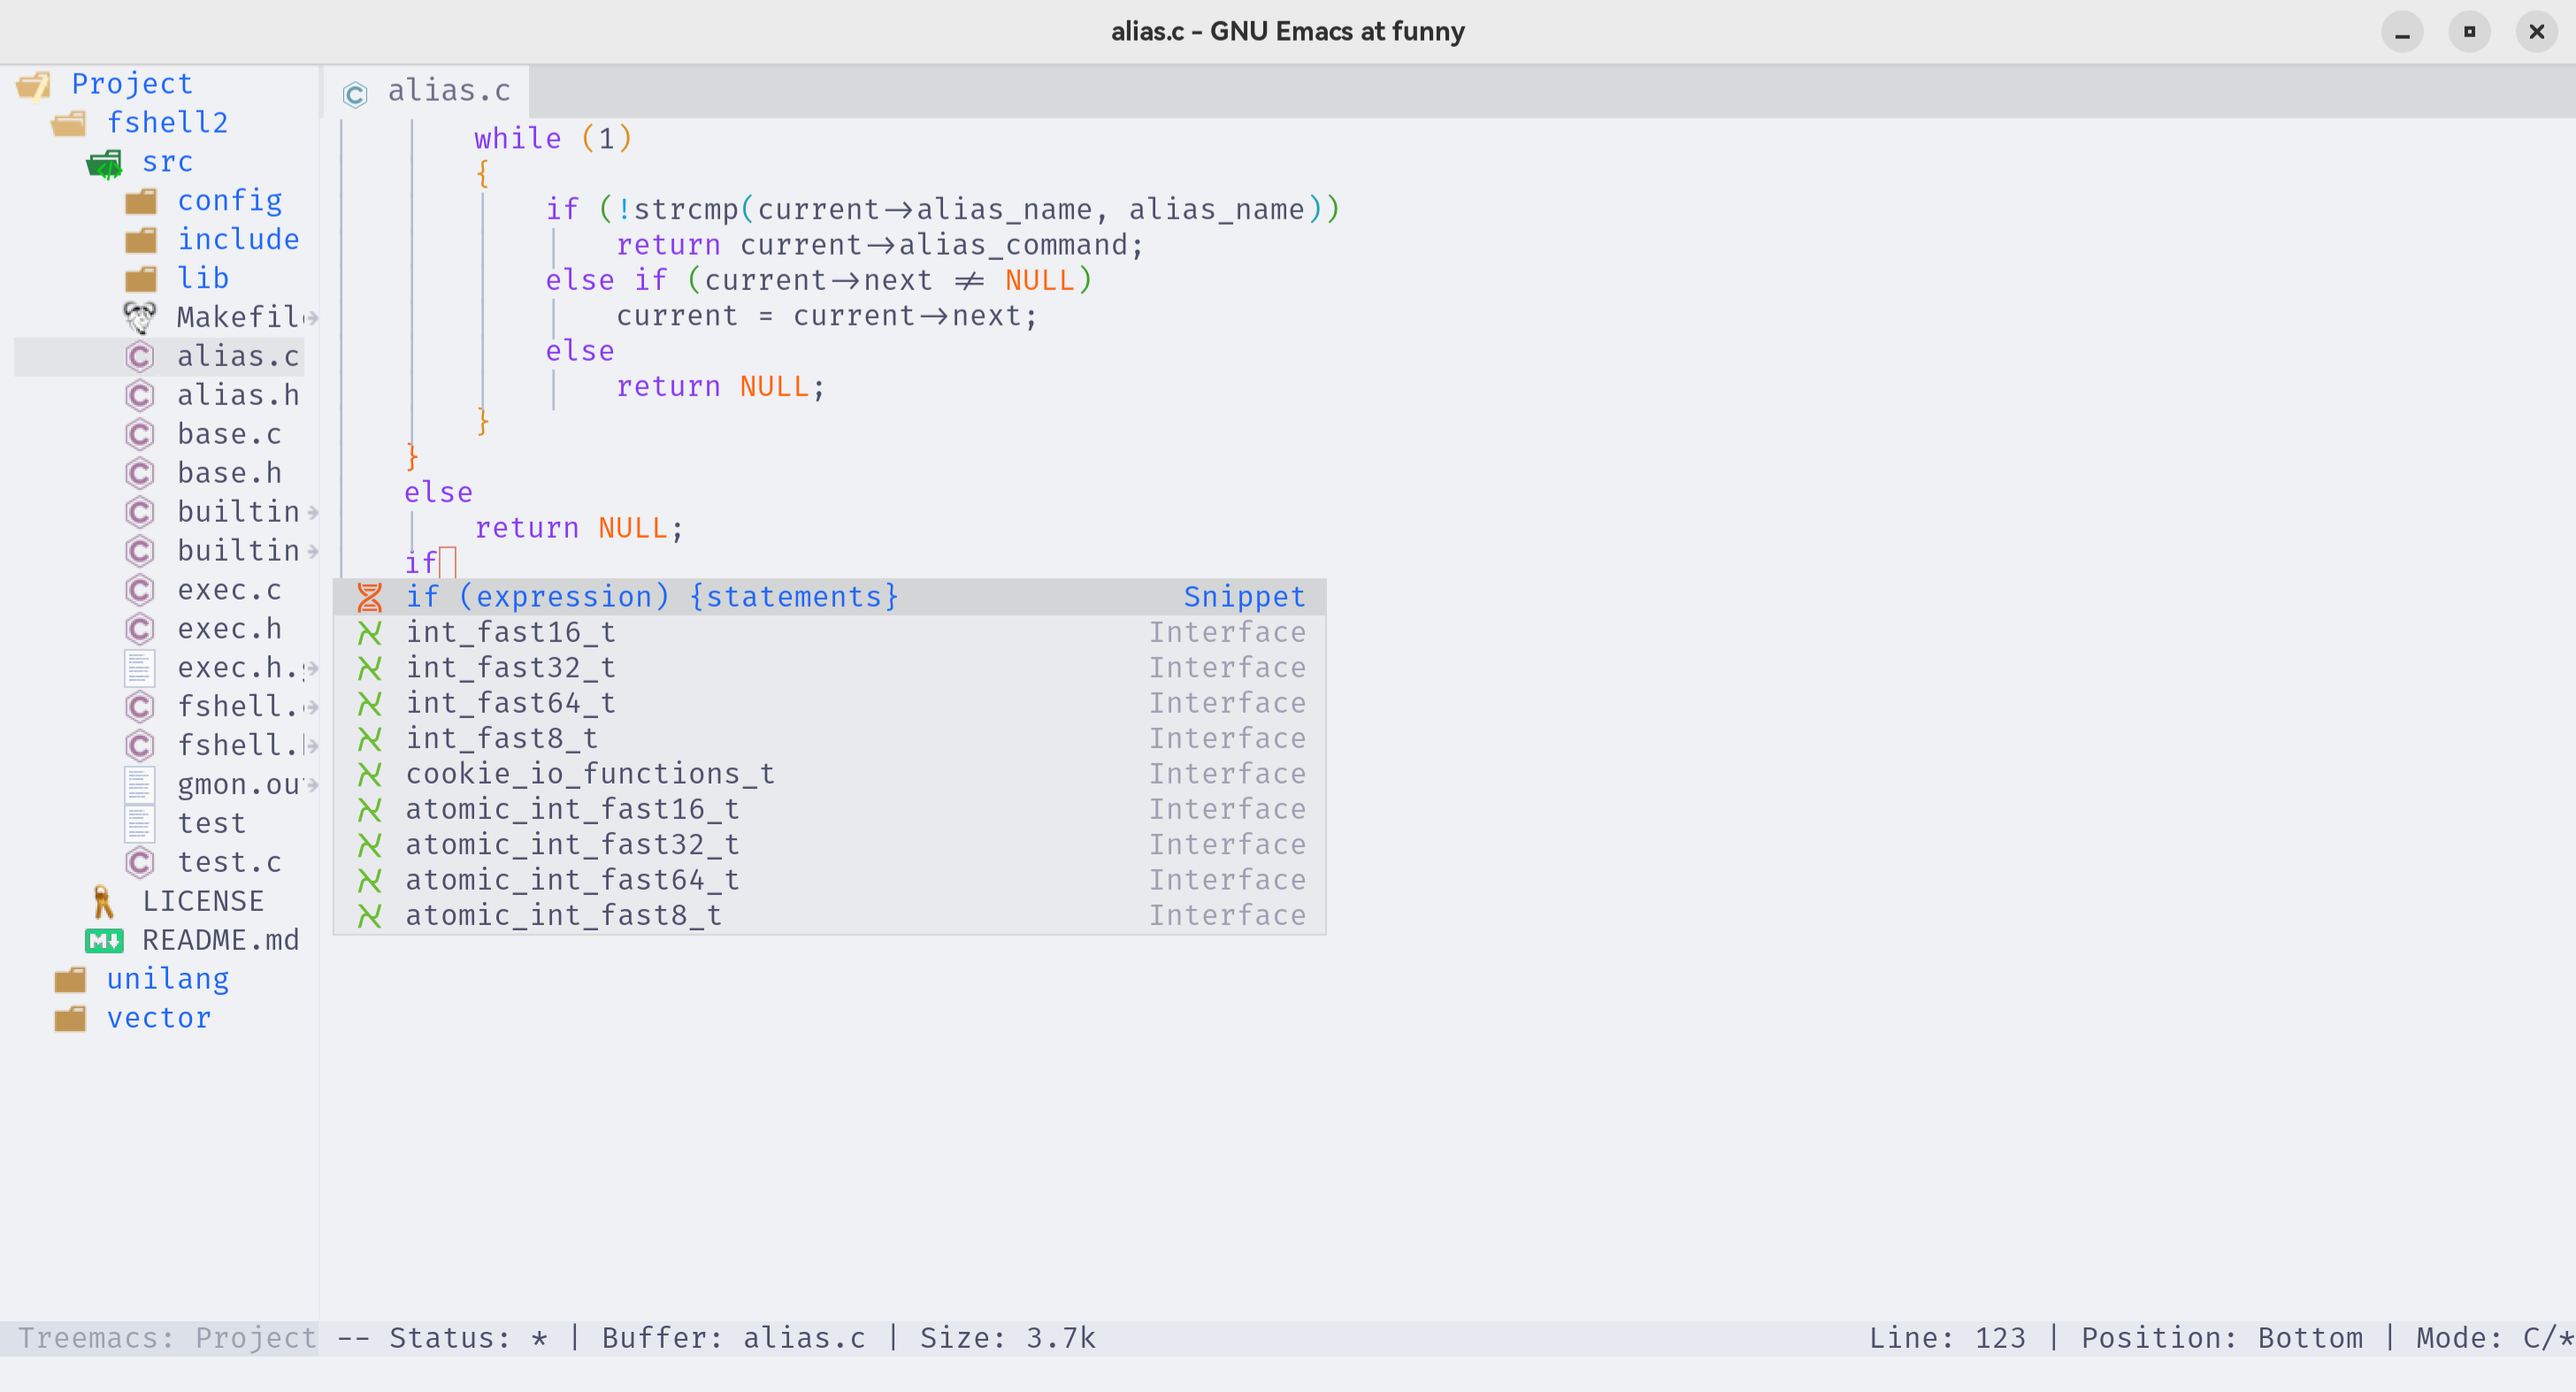
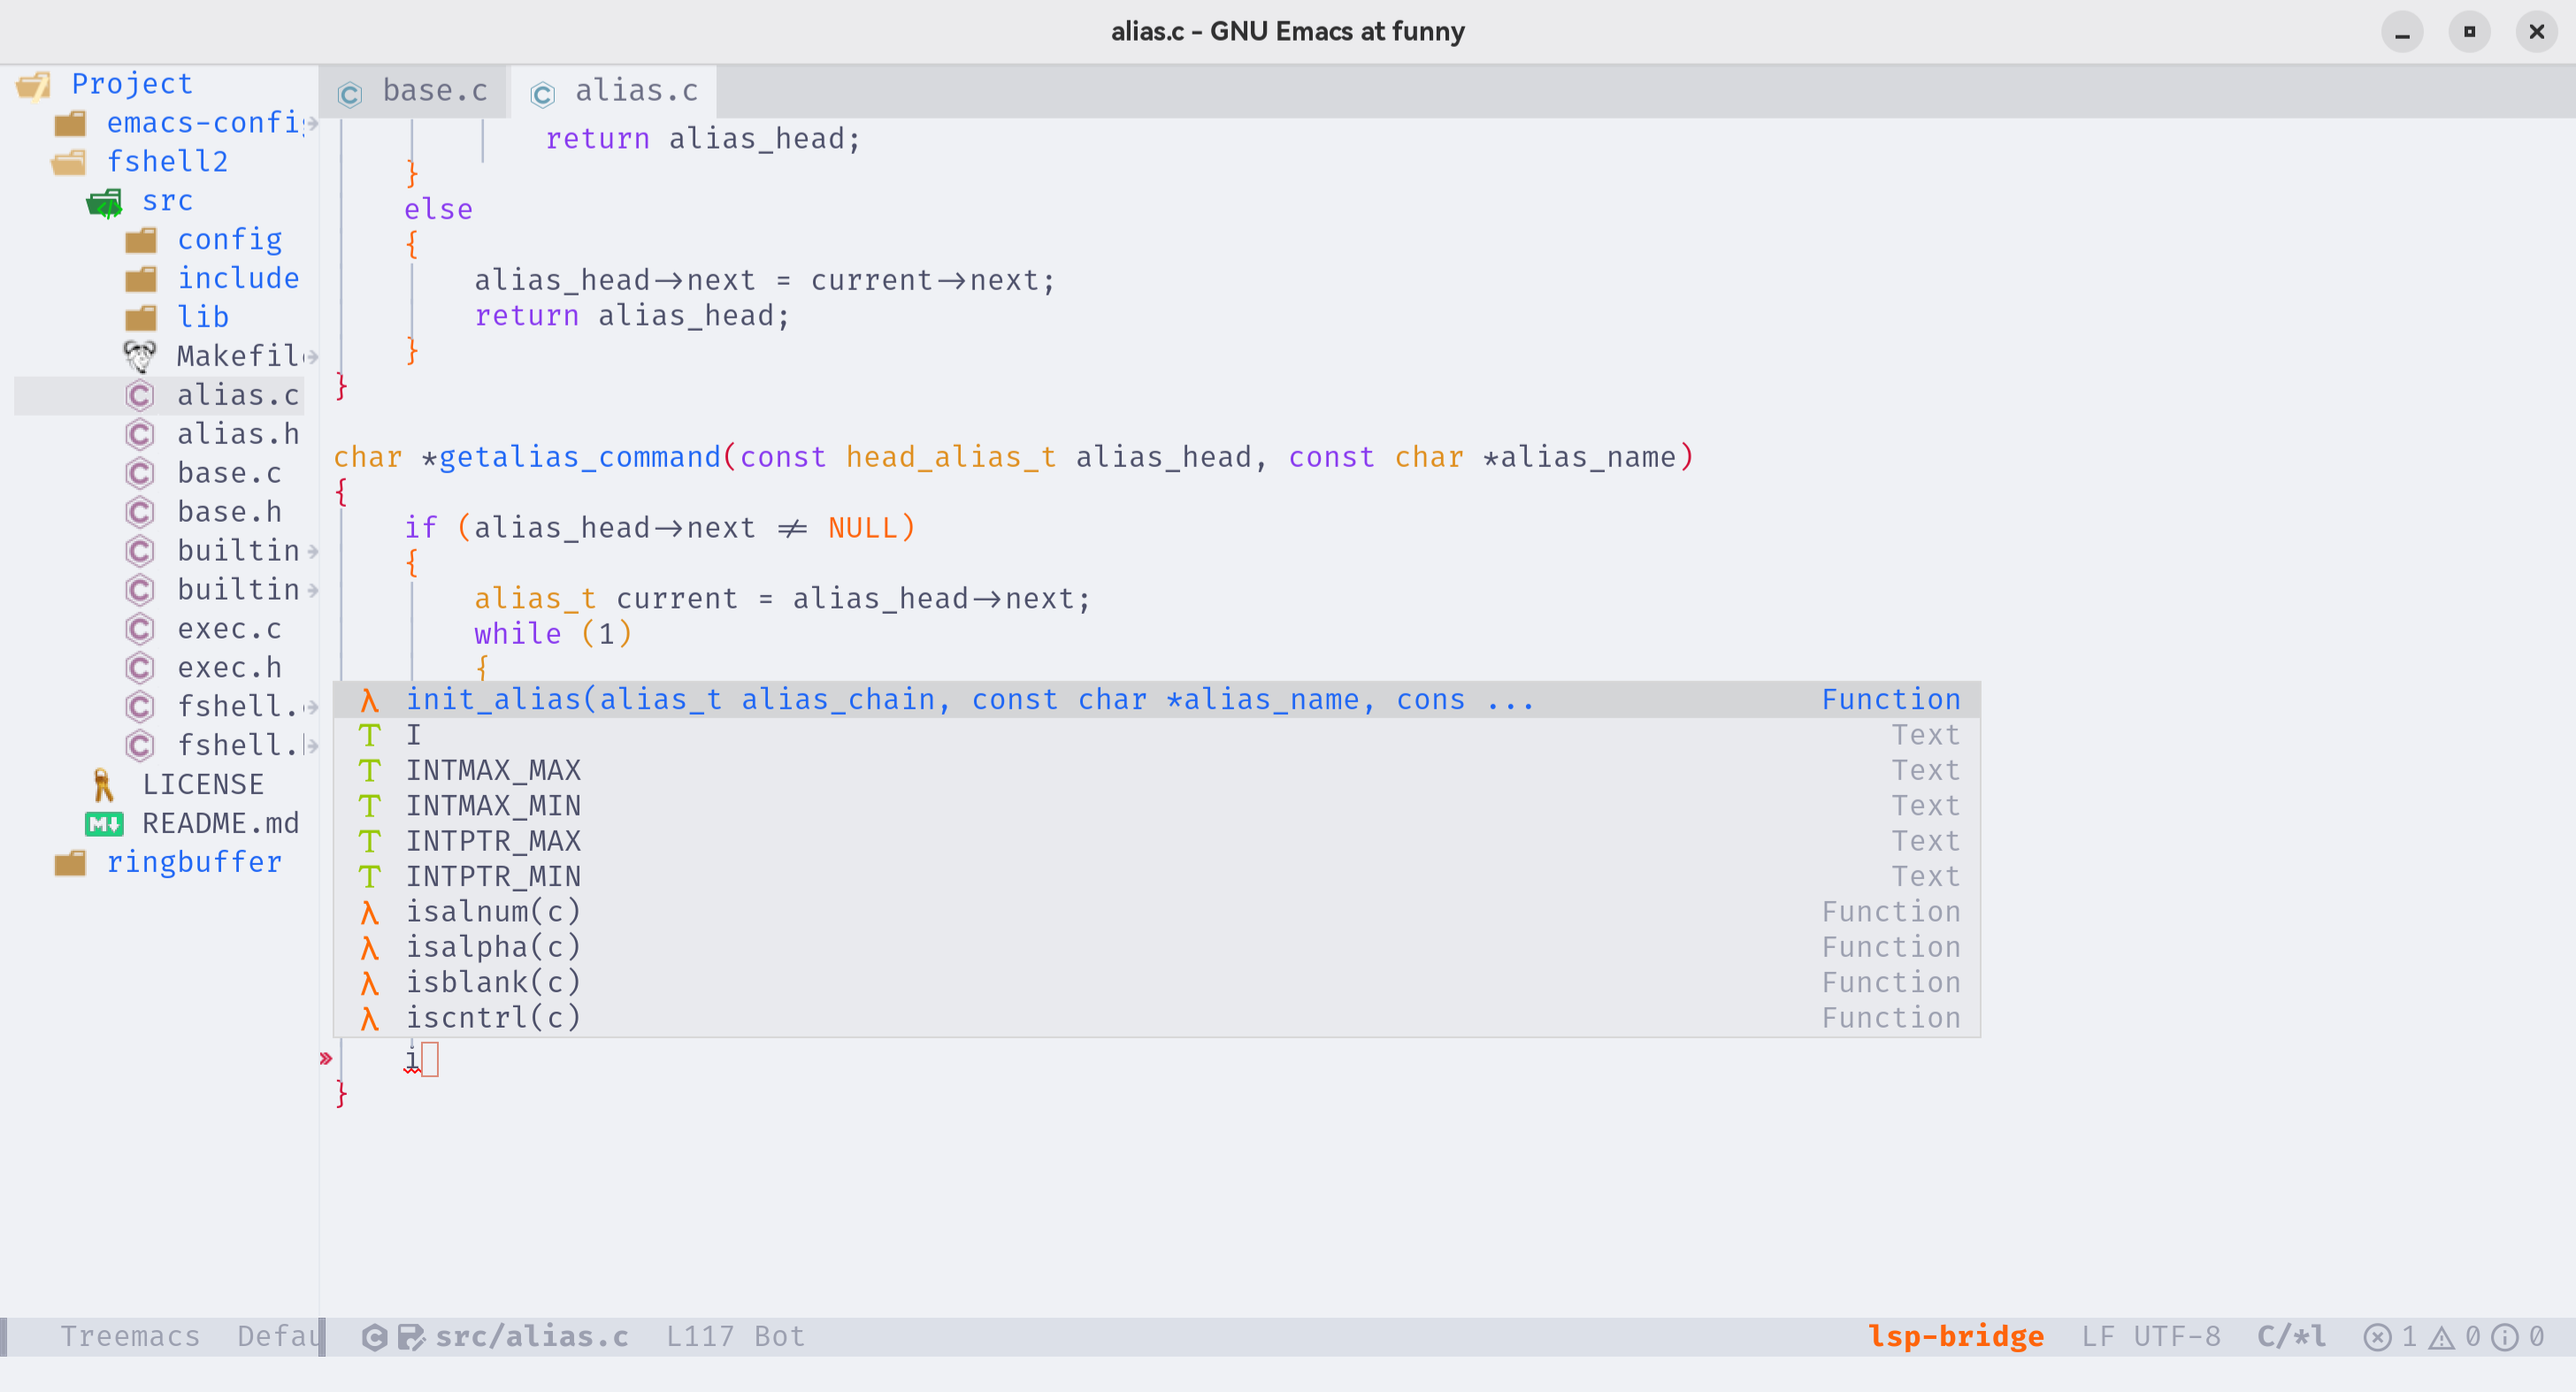
style:use doom-modeline as default modeline

diff --git a/README.md b/README.md
@@ -8,11 +8,12 @@
   *And then start your GNU Emacs: M-x package-refresh-contents RET*</p>                                                                   
   *Next: M-x package-install-selected-packages RET*</p>
   *Next: M-x all-the-icons-install-fonts RET*</p>
-  *Last: M-x fira-code-mode-install-fonts RET</p>
+  *Next: M-x nerd-icons-install-fonts RET*</p>
+  *Last: M-x fira-code-mode-install-fonts RET*</p>
   *After that,restart your GNU Emacs*</p>
   *Warning: I using Fira Code as my GNU Emacs default fonts.*</p>
 
-  **extensions used ： all-the-icons dashboard highlight-indent-guides treemacs projectile rainbow-delimiters smex use-package markdown-mode beacon awesome-tab corfu corfu-terminal lsp-bridge fira-code-mode**</p>
+  **extensions used ： all-the-icons dashboard highlight-indent-guides treemacs projectile rainbow-delimiters smex use-package markdown-mode beacon awesome-tab corfu corfu-terminal lsp-bridge fira-code-mode doom-modeline nerd-icons**</p>
   **The default applies to the catppuccin, if you need to modify the init.el can be modified.**</p>
 
 * Press F8 to open treemacs, my default setting is to hide hidden files.</p>
